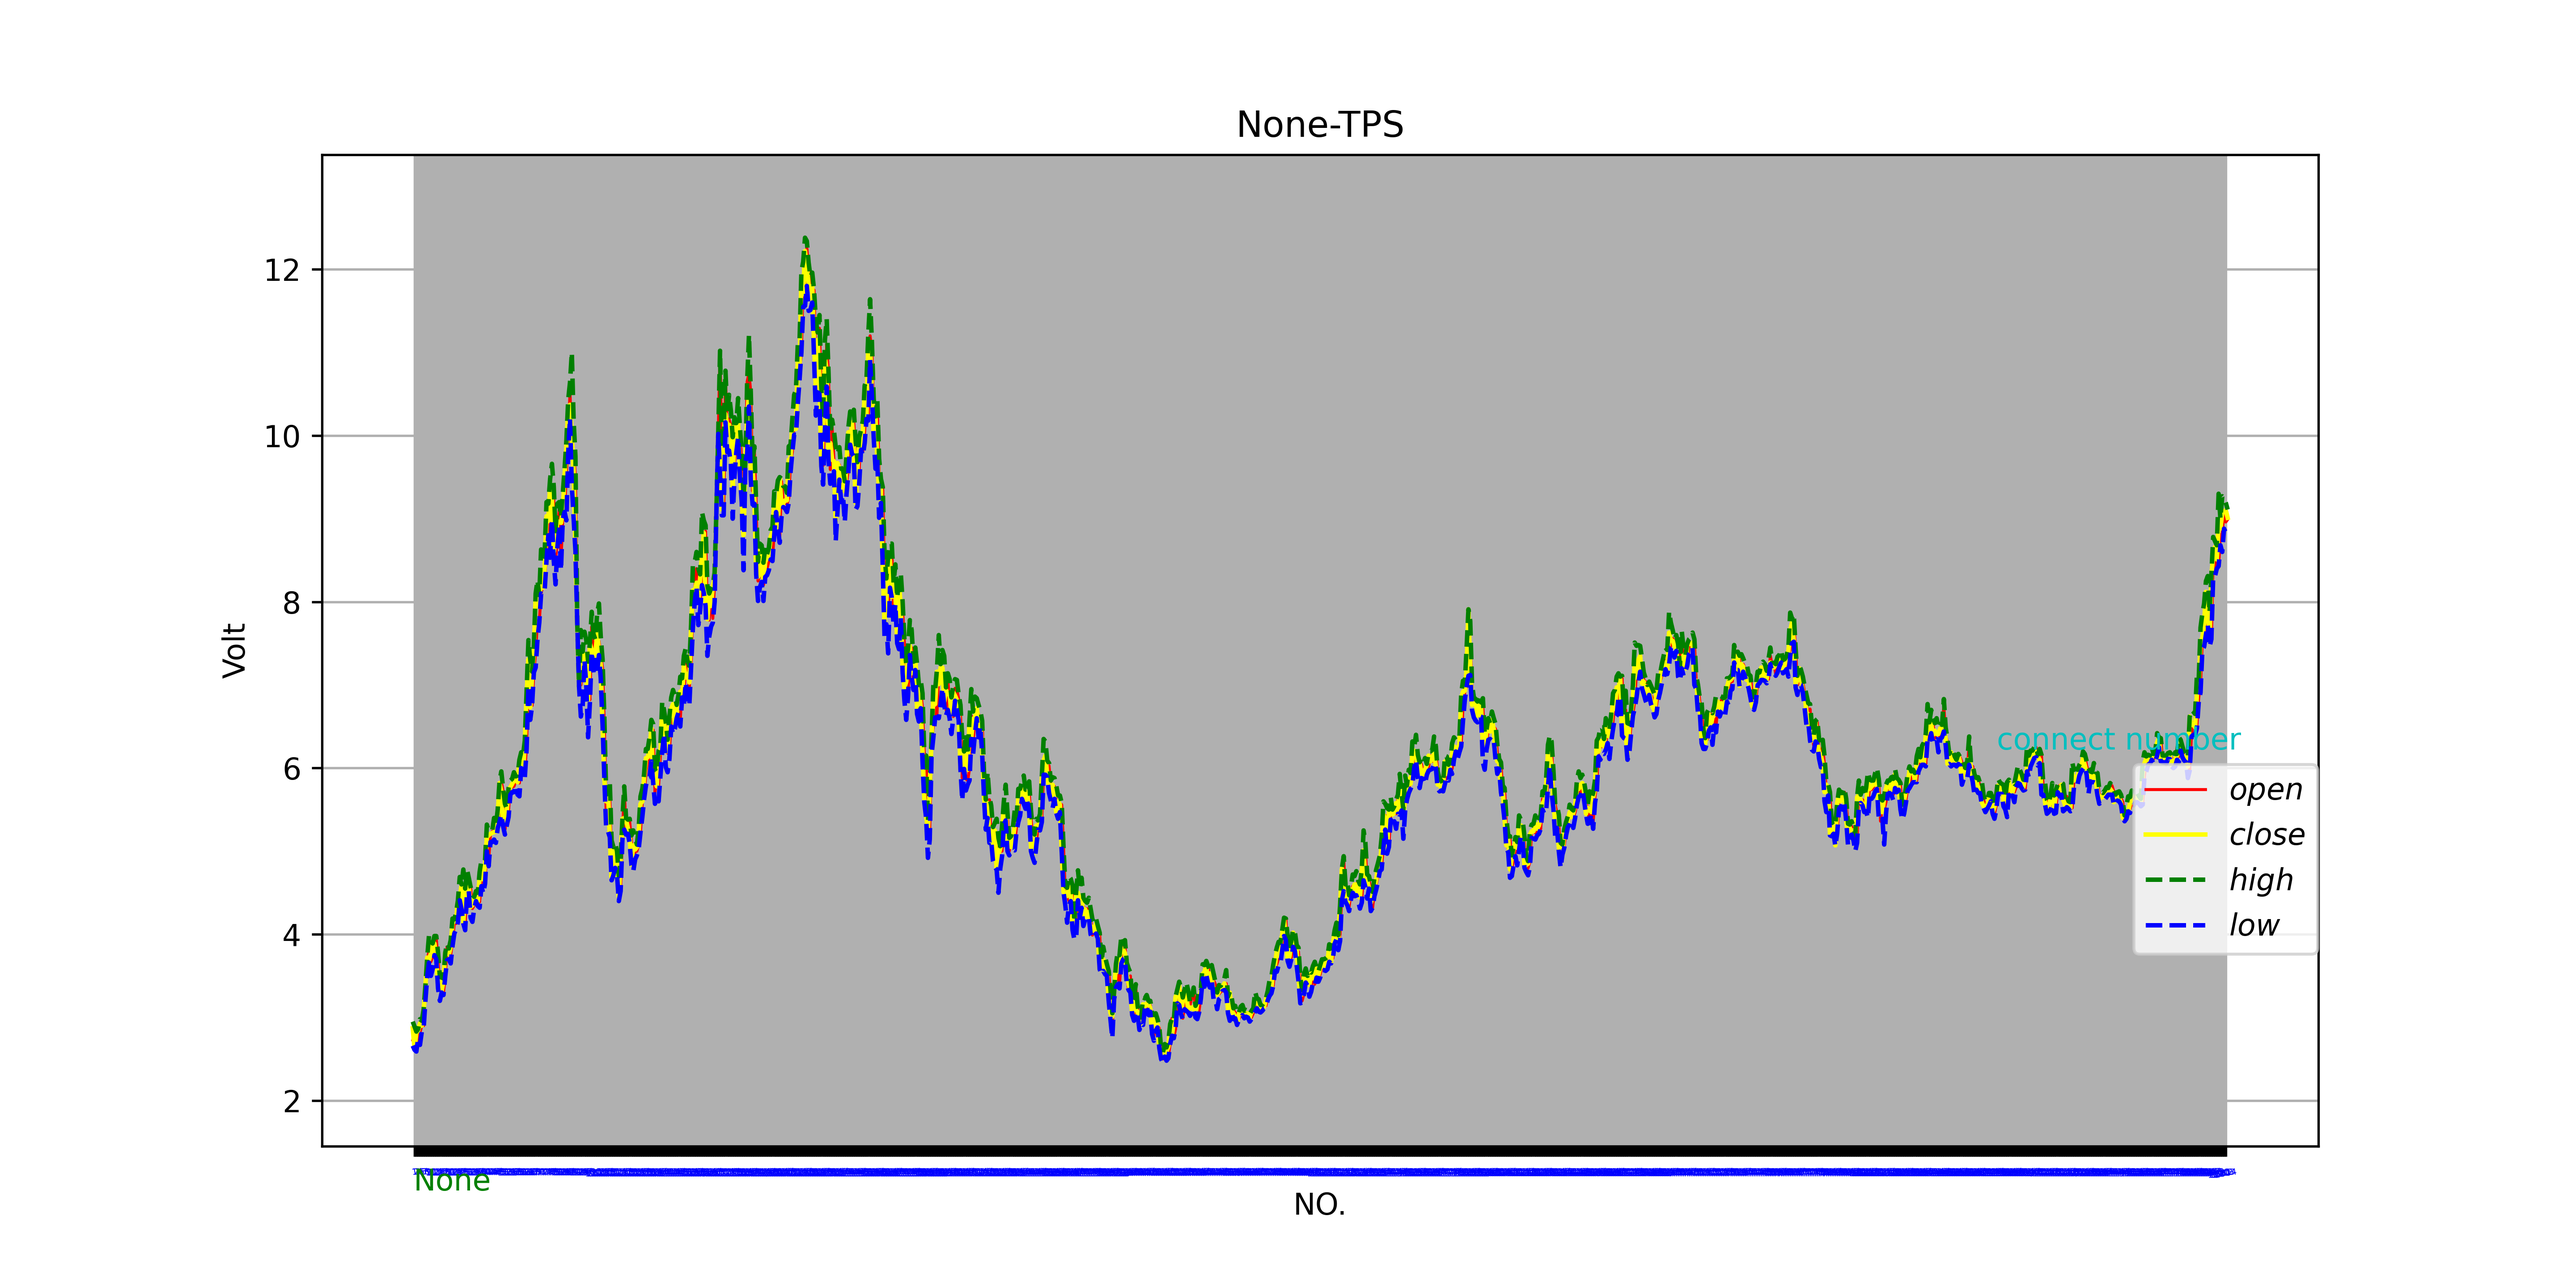
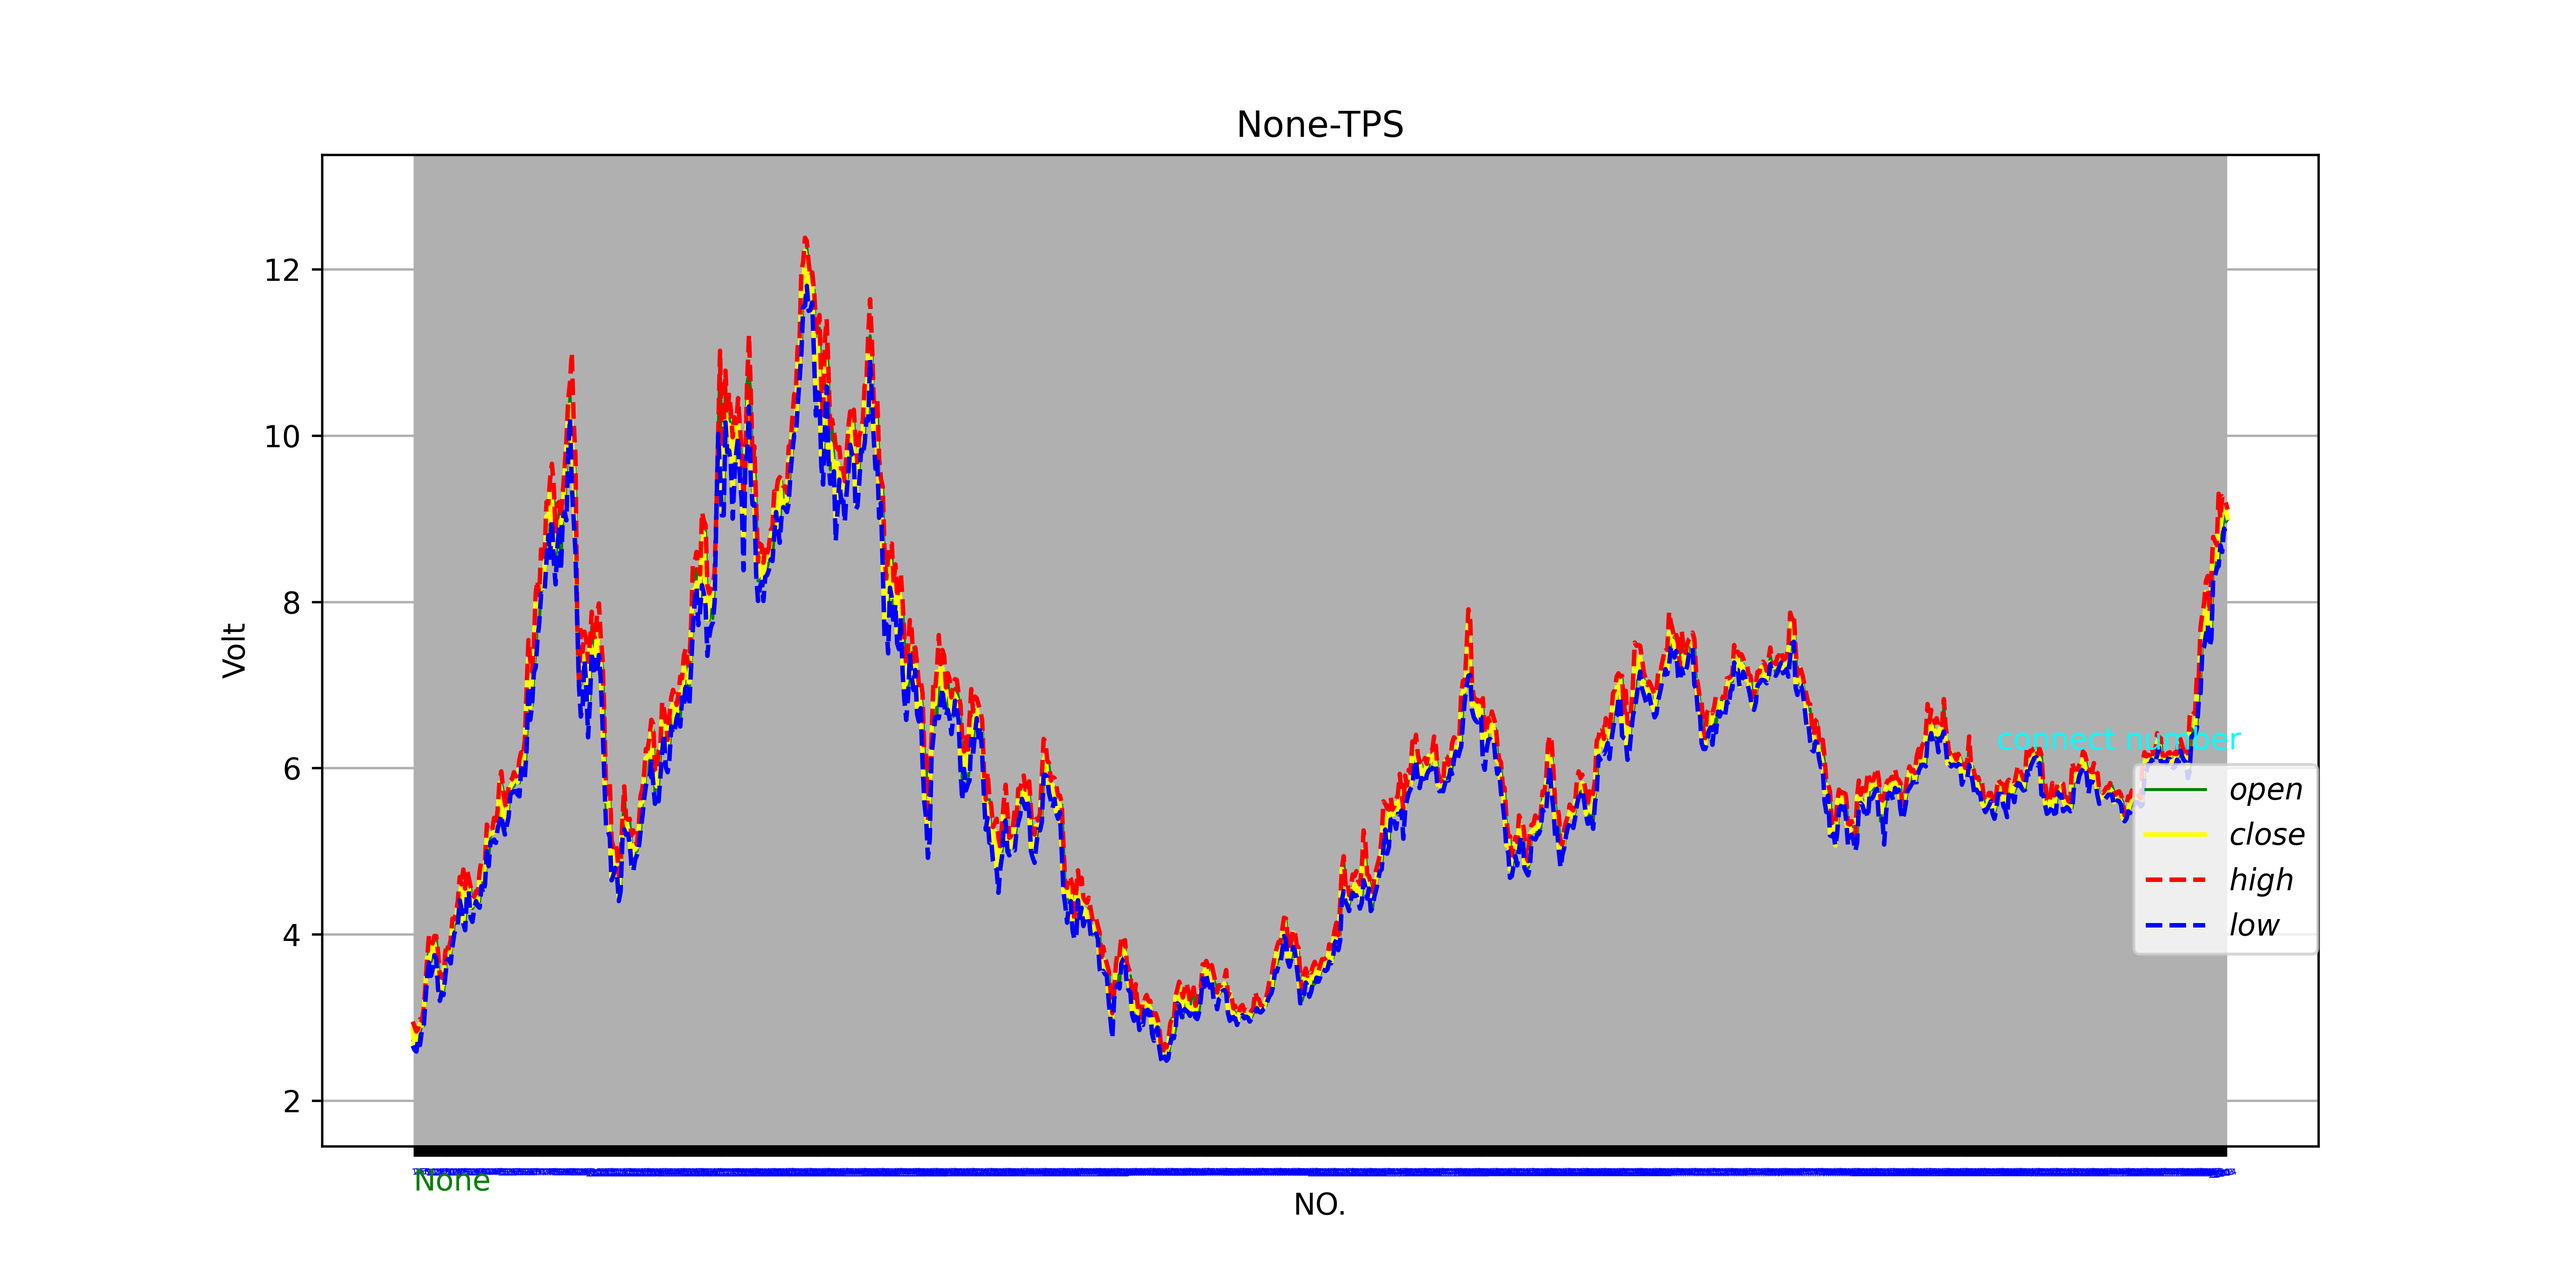
[myautomatic] modify visualstudio build files

diff --git a/LinxSrvc/IM/KaiSocket.cc b/LinxSrvc/IM/KaiSocket.cc
@@ -918,7 +918,7 @@ ssize_t KaiSocket::Publisher(const std::string& topic, const std::string& payloa
         if (!m_callbacks.empty()) m_callbacks.clear();
         g_maxTimes = 0;
     }
-    const int maxLen = payload.max_size();
+    std::size_t maxLen = payload.max_size();
     Message msg = {};
     memset(static_cast<void*>(&msg), 0, sizeof(Message));
     size = (size > maxLen ? maxLen : size);

diff --git a/LinxSrvc/gSOAPverify/main/mainSoap.cc b/LinxSrvc/gSOAPverify/main/mainSoap.cc
@@ -1,5 +1,5 @@
 //
-#include"include/String_-inl.h"
+#include"../../include/String_-inl.h"
 #include"mainSoap.h"
 #include"../sql/sqlDbReq.h"
 #include"../sys/status.h"
